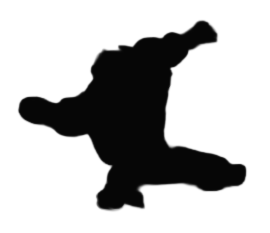
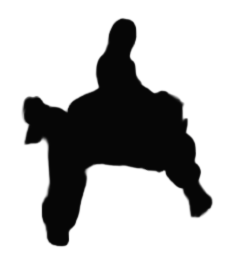
added walking sfx and animation

Changed region(s): [[0.0601, 0.0601, 0.9313, 0.9313]]

diff --git a/Final/js/Forest.js b/Final/js/Forest.js
@@ -41,6 +41,14 @@ let Vignette
 let CarI
 let RoadI
 let BunkerI
+let CurrentFrame = 0
+let WalkFrames = [1,2]
+let WalkDelay = 40
+let WalkTimer = 0
+let Walking = false
+let WalkingI1
+let WalkingI2
+let WalkI
 let P = {
     X: 400,
     Y: 400,
@@ -56,6 +64,7 @@ let FootStepsGrassA
 let FootStepsMetalA
 let MusicA
 let DoorOpen
+let Step1
 
 //trees
 let Trees = []
@@ -123,13 +132,18 @@ async function setup() {
     NPC1 = await loadImage('assets/images/NPC1.png')
     NPC2 = await loadImage('assets/images/NPC2.png')
     BunkerI = await loadImage('assets/images/bunker.png')
+    WalkingI1 = await loadImage('assets/images/Pwalking1.png')
+    WalkingI2 = await loadImage('assets/images/Pwalking3.png')
     HornA = await loadSound('assets/sounds/horn.mp3')
     DoorOpen = await loadSound('assets/sounds/door_open.mp3')
+    Step1 = await loadSound('assets/sounds/step1.mp3')
+
 
     imageMode(CENTER);
     angleMode(DEGREES);
 
-
+    WalkFrames[0] = WalkingI1
+    WalkFrames[1] = WalkingI2
 }
 /**
  * OOPS I DIDN'T DESCRIBE WHAT MY DRAW DOES!
@@ -152,6 +166,7 @@ function draw() {
     if (Menu === 0) {
         DrawPlayer(P)
         MovePlayer(P)
+        WalkingSoundAnimation()
     }
 
     //creates the Trees in an array over the player
@@ -186,9 +201,16 @@ function draw() {
         //saves the fps
     fps = frameRate()
 
+    if (keyIsDown("g") === true) {
+        WalkI = WalkingI2
+    }
+    if (keyIsDown("g") === true) {
+        WalkI = WalkingI1
+    }
+
     push()
     fill(255, 255, 255)
-    text(`X: ${fps}, Y: ${HornTrigger}`, 20, 30)
+    text(`X: ${Walking}, Y: ${WalkTimer}`, 20, 30)
     pop()
 
     //if the game is laging tell the the player its lagging and how to fix it
@@ -218,7 +240,7 @@ function DrawPlayer(P) {
     //rotates the image from the center
     imageMode(CENTER);
     rotate(P.R)
-    image(PlayerA, 0, 0, 150, 100)
+    image(WalkFrames[CurrentFrame], 0, 0, 150, 100)
     pop()
 
 }
@@ -227,15 +249,19 @@ function DrawPlayer(P) {
 function MovePlayer(P) {
     if (keyIsDown("a") === true || keyIsDown("A") === true) {
         P.X -= 1.5
+        Walking = true
     }
     if (keyIsDown("d") === true || keyIsDown("D") === true) {
         P.X += 1.5
+        Walking = true
     }
     if (keyIsDown("w") === true || keyIsDown("W") === true) {
         P.Y -= 1.5
+        Walking = true
     }
     if (keyIsDown("s") === true || keyIsDown("S") === true) {
         P.Y += 1.5
+        Walking = true
     }
 }
 
@@ -303,6 +329,32 @@ function ChangeRoom() {
         Lost++
         NewRoom = 1
         SpawnItem = true
+    }
+}
+
+function WalkingSoundAnimation() {
+    if (Walking === true) {
+    WalkTimer++
+    }
+    if (WalkTimer <= WalkDelay) {
+        WalkI = WalkingI1
+    }
+    if (WalkTimer >= WalkDelay) {
+    WalkI = WalkingI2
+    WalkTimer = 0
+    CurrentFrame++
+    Step1.rate(random(0.9, 1.1))
+    Step1.play()
+    }
+    //resets everything if a key is let go
+    if (!keyIsPressed) {
+        Walking = false
+        WalkTimer = 0
+        CurrentFrame = 0
+    }
+
+    if (CurrentFrame >= WalkFrames.length) {
+        CurrentFrame = 0
     }
 }
 
@@ -394,6 +446,7 @@ function PermRemoveTrees() {
 //if the user  goes through more rooms than the max number of rooms they enter the road and get run over
 function RoadRoom() {
     if (Room === 1) {
+        SpawnItem = false
         //constantly add 1 to TP so the teleport function will only happen once
         TP++
         //teleport player to specific location and constrain movement so they cant teleport away
@@ -446,6 +499,7 @@ function RoadRoom() {
 function EscapeRoom() {
     if (Room === 2) {
         TP++
+        SpawnItem = false
         //teleport player to specific location and constrain movement so they cant teleport away
         if (TP === 1) {
             push()
@@ -478,6 +532,7 @@ function BunkerRoom() {
     //if the finished the dialogue where they find the bunker with the key let them into the bunker and plays a sound
     if (EnterBunker === true && Speaker === 0) {
         Room = 3
+        SpawnItem = false
         DoorOpenTrigger++
     }
     if (DoorOpenTrigger === 1) {
